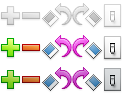
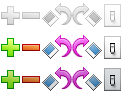
Help page filled in, bug fixes in settings and sets, polishing photostream view, big buttons in auth and help.
git-svn-id: file:///root/var/svn/trunk/uploadr@50 2ccee060-bf41-0410-b5a3-d28fdbd3ea41

diff --git a/MacUploadr.app/Contents/Resources/chrome/skin/uploadr/main.css b/MacUploadr.app/Contents/Resources/chrome/skin/uploadr/main.css
@@ -20,13 +20,15 @@ box, toolbox, hbox, vbox {
 #logo {
 	width: 100px;
 	height: 37px;
-	background: url(logo_flickr.png) no-repeat 5px 5px;
+	background: url(logo_flickr.png) no-repeat 0 5px;
 }
 
 /* User indicator */
+/*
 #head hbox {
 	margin: 8px 5px 0 5px;
 }
+*/
 #username {
 	margin: 5px 5px 0 0;
 }
@@ -171,16 +173,16 @@ div.small.button:active {
 	background-position: 0 -20px;
 }
 
-/* Make the upload button extra gaudy */
-#button_upload {
+/* Make the upload, OK and Ready buttons extra gaudy */
+#button_upload, #button_ok, #button_auth {
 	width: 193px;
 	height: 37px;
 	background: url(upload_off.png) no-repeat;
 }
-#button_upload.button:active {
+#button_upload.button:active, #button_ok.button:active, #button_auth.button:active {
 	background: url(upload_click.png) no-repeat;
 }
-#button_upload div {
+#button_upload div, #button_ok div, #button_auth div {
 	padding: 5px 0 11px 0;
 	background: transparent;
 	font-size: 21px;
@@ -188,7 +190,7 @@ div.small.button:active {
 	text-transform: none;
 	text-align: center;
 }
-#button_upload.button div {
+#button_upload.button div, #button_ok.button div, #button_auth.button div {
 	color: #ff0084;
 }
 #button_upload.disabled_button {
@@ -235,36 +237,21 @@ radiogroup checkbox {
  */
 
 #tools {
-	background: white;
-	border-bottom: 1px dotted #ddd;
+	margin: 5px;
+	padding: 0;
+	background: url(header_bg.png);
 }
-#tools toolbox toolbar {
-	height: 34px;
-	padding: 6px 0 1px 5px;
-	background: white;
-	border-bottom: 0;
-}
-/*
-#tools toolbox toolbar div {
-	margin: 0 0 5px 5px;
-}
-*/
-#tools toolbox toolbar toolbarbutton {
-	height: 20px;
-	margin: 0 5px 0 0;
-	background: white url(buttons.png) no-repeat;
-	border: 0;
-}
-#tools toolbox toolbar toolbarbutton :hover {
-	border: 0;
-}
-toolbarseparator {
+div.toolbarseparator {
 	width: 1px;
 	margin: 0 15px 5px 10px;
 	background: #eee;
 }
-#t_rotate_l {
+#t_rotate_l, #t_rotate_r {
 	width: 30px;
+	height: 20px;
+	margin: 0 5px 0 0;
+	background: url(buttons.png) no-repeat;
+	border: 0;
 }
 #t_rotate_l.disabled {
 	background-position: -42px -3px;
@@ -312,6 +299,13 @@ toolbarseparator {
 #photostream h1, #photostream p {
 	margin: 0;
 	padding: 0;
+}
+#photostream_pro {
+	visibility: hidden;
+}
+#photostream_tools {
+	text-align: right;
+	vertical-align: bottom;
 }
 
 /* Messages in the photos container */
@@ -365,7 +359,7 @@ toolbarseparator {
 
 /* The actual list of photos and similar properties of the queue */
 #photos_list, #queue_list {
-	margin: 0;
+	margin: 5px 0 0 0;
 	padding: 0;
 	list-style-type: none;
 }
@@ -563,9 +557,21 @@ toolbarseparator {
 /*
  * Tips and tricks page
  */
-
 #page_help {
 	display: none;
 	padding: 24px;
 	background: white;
+}
+#page_help td {
+	vertical-align: top;
+	/*border: 1px solid red;*/
+}
+#page_help td.spacer {
+	width: 12%;
+}
+#page_help td.column {
+	width: 32%;
+}
+#page_help p {
+	font-size: 14px;
 }

diff --git a/MacUploadr.app/Contents/Resources/chrome/content/uploadr/threads.js b/MacUploadr.app/Contents/Resources/chrome/content/uploadr/threads.js
@@ -13,10 +13,15 @@ var threads = {
 window._threads = threads;
 
 // Thumbnail thread wrapper
-var Thumb = function(id, thumbSize, path) {
+var Thumb = function(id, thumbSize, path, auto_select) {
 	this.id = id;
 	this.thumbSize = thumbSize;
 	this.path = path;
+	if (null == auto_select) {
+		this.auto_select = false;
+	} else {
+		this.auto_select = auto_select;
+	}
 };
 Thumb.prototype = {
 	run: function() {
@@ -24,7 +29,7 @@ Thumb.prototype = {
 
 			// Create a thumbnail and pass the result back to the UI thread
 			var result = threads.gm.thumb(this.thumbSize, this.path);
-			threads.main.dispatch(new ThumbCallback(this.id, result),
+			threads.main.dispatch(new ThumbCallback(this.id, result, this.auto_select),
 				threads.main.DISPATCH_NORMAL);
 
 		} catch (err) {
@@ -38,9 +43,10 @@ Thumb.prototype = {
 		throw Components.results.NS_ERROR_NO_INTERFACE;
 	}
 };
-var ThumbCallback = function(id, result) {
+var ThumbCallback = function(id, result, auto_select) {
 	this.id = id;
 	this.result = result;
+	this.auto_select = auto_select;
 };
 ThumbCallback.prototype = {
 	run: function() {
@@ -61,7 +67,6 @@ ThumbCallback.prototype = {
 				photos.list[this.id].width = parseInt(thumb[1]);
 				photos.list[this.id].height = parseInt(thumb[2]);
 				photos.list[this.id].date_taken = thumb[3];
-//Components.utils.reportError(photos.list[this.id].date_taken);
 				img.src = 'file://' + thumb[9];
 				img.setAttribute('width', thumb[4]);
 				img.setAttribute('height', thumb[5]);
@@ -73,7 +78,7 @@ ThumbCallback.prototype = {
 				photos.list[this.id].tags = thumb[8].replace(/^\s+|\s+$/, '');
 
 				// Select newly added images if the user hasn't clicked
-				if (meta.auto_select) {
+				if (meta.auto_select || this.auto_select) {
 					mouse.click({
 						target: img,
 						ctrlKey: true,
@@ -145,7 +150,7 @@ Rotate.prototype = {
 				threads.main.dispatch(new RotateCallback(this.id, rotate[1]),
 					threads.main.DISPATCH_NORMAL);
 				result = threads.gm.thumb(this.thumbSize, rotate[1]);
-				threads.main.dispatch(new ThumbCallback(this.id, result),
+				threads.main.dispatch(new ThumbCallback(this.id, result, true),
 					threads.main.DISPATCH_NORMAL);
 			}
 
@@ -167,7 +172,6 @@ var RotateCallback = function(id, path) {
 RotateCallback.prototype = {
 	run: function() {
 		photos.list[this.id].path = this.path;
-Components.utils.reportError(photos.selected.toSource());
 	},
 	QueryInterface: function(iid) {
 		if (iid.equals(Ci.nsIRunnable) || iid.equals(Ci.nsISupports)) {

diff --git a/MacUploadr.app/Contents/Resources/chrome/content/uploadr/mouse.js b/MacUploadr.app/Contents/Resources/chrome/content/uploadr/mouse.js
@@ -95,7 +95,7 @@ var mouse = {
 		}
 		
 		// If we clicked on an error or a spinner, do nothing
-		else if ('error' == e.target.className && 'loading' == e.target.className) {
+		else if ('error' == e.target.className || 'loading' == e.target.className) {
 		}
 
 		// If we clicked on whitespace, hide the thumbnail and metadata, and disable buttons
@@ -142,8 +142,8 @@ var mouse = {
 
 	// Update the bounding box used during drag-selection
 	drag_select: function(e, pos) {
-		const OFFSET_X = -mouse.box.x - 5;
-		const OFFSET_Y = -mouse.box.y - 73;
+		const OFFSET_X = -mouse.box.x - grid.base.x;
+		const OFFSET_Y = -mouse.box.y - grid.base.y;
 		var ds = document.getElementById('drag_select');
 
 		// Invert positions if necessary
@@ -192,8 +192,8 @@ var mouse = {
 		// Clicking whitespace will start the drag-select
 		else if ('photos_sort_revert' != e.target.id) {
 			mouse.anchor = {
-				x: e.clientX + pos.x.value - mouse.box.x - 5,
-				y: e.clientY + pos.y.value - mouse.box.y - 73
+				x: e.clientX + pos.x.value - mouse.box.x - grid.base.x,
+				y: e.clientY + pos.y.value - mouse.box.y - grid.base.y
 			};
 			var ds = document.getElementById('drag_select');
 			ds.style.left = mouse.anchor.x + 'px';
@@ -218,8 +218,8 @@ var mouse = {
 			mouse.box = document.getElementById('photos').boxObject.QueryInterface(
 				Ci.nsIScrollBoxObject);
 		}
-		const OFFSET_X = -mouse.box.x - 5;
-		const OFFSET_Y = -mouse.box.y - 73;
+		const OFFSET_X = -mouse.box.x - grid.base.x;
+		const OFFSET_Y = -mouse.box.y - grid.base.y;
 		var pos = {x: {}, y: {}};
 		mouse.box.getPosition(pos.x, pos.y);
 

diff --git a/MacUploadr.app/Contents/Resources/chrome/content/uploadr/settings.js b/MacUploadr.app/Contents/Resources/chrome/content/uploadr/settings.js
@@ -159,16 +159,6 @@ var settings = {
 			var changed_hidden = settings.hidden != s.hidden;
 			var changed_safety_level = settings.safety_level != s.safety_level;
 
-			// Get permission to overwrite any changes that were made
-			if (0 < photos.count && (changed_privacy || changed_content_type ||
-				changed_hidden || changed_safety_level) &&
-				!confirm(locale.getFormattedString('settings.overwrite.text', [photos.count]),
-					locale.getString('settings.overwrite.title'),
-					locale.getString('settings.overwrite.ok'),
-					locale.getString('settings.overwrite.cancel'))) {
-				return;
-			}
-
 			// Save back to the settings object
 			var defaults = {};
 			if (changed_privacy) {
@@ -193,6 +183,16 @@ var settings = {
 			}
 			settings.resize = s.resize;
 			meta.defaults(defaults);
+
+			// Get permission to overwrite any changes that were made
+			if (0 < photos.count && (changed_privacy || changed_content_type ||
+				changed_hidden || changed_safety_level) &&
+				!confirm(locale.getFormattedString('settings.overwrite.text', [photos.count]),
+					locale.getString('settings.overwrite.title'),
+					locale.getString('settings.overwrite.ok'),
+					locale.getString('settings.overwrite.cancel'))) {
+				return;
+			}
 
 			// Save metadata for a single photo
 			if (1 == photos.selected.length) {

diff --git a/MacUploadr.app/Contents/Resources/chrome/content/uploadr/api.js b/MacUploadr.app/Contents/Resources/chrome/content/uploadr/api.js
@@ -546,7 +546,7 @@ var flickr = {
 	// Like the auth section, this is used by users.login() and won't need to be called
 	people: {
 
-		// Used exclusively for buddy icons right now
+		// Sets up the photostream header
 		getInfo: function(user_id) {
 			_api({
 				'method': 'flickr.people.getInfo',
@@ -559,11 +559,17 @@ var flickr = {
 				var p = rsp.getElementsByTagName('person')[0];
 				var s = p.getAttribute('iconserver');
 				if (0 != parseInt(s)) {
-Components.utils.reportError('http://farm' + p.getAttribute('iconfarm') + '.static.flickr.com/' +
-s + '/buddyicons/' + id + '.jpg');
 					document.getElementById('buddyicon').src =
 						'http://farm' + p.getAttribute('iconfarm') + '.static.flickr.com/' +
 						s + '/buddyicons/' + id + '.jpg';
+				} else {
+					document.getElementById('buddyicon').src =
+						'http://flickr.com/images/buddyicon.jpg';
+				}
+				if (1 == parseInt(p.getAttribute('ispro'))) {
+					document.getElementById('photostream_pro').style.visibility = 'visible';
+				} else {
+					document.getElementById('photostream_pro').style.visibility = 'hidden';
 				}
 			}
 		},

diff --git a/MacUploadr.app/Contents/Resources/chrome/content/uploadr/grid.js b/MacUploadr.app/Contents/Resources/chrome/content/uploadr/grid.js
@@ -1,5 +1,11 @@
 var grid = {
 
+	// Base locations for grid calculations (pixels)
+	base: {
+		x: 5,
+		y: 78
+	},
+
 	// How many photos are in each full row?
 	width: function() {
 		var p = photos.list;
@@ -20,8 +26,8 @@ var grid = {
 
 	// Get photos in a bounding box
 	bounding_box: function(x1, y1, x2, y2) {
-		const OFFSET_X = -mouse.box.x - 5;
-		const OFFSET_Y = -mouse.box.y - 73;
+		const OFFSET_X = -mouse.box.x - grid.base.x;
+		const OFFSET_Y = -mouse.box.y - grid.base.y;
 		var pos = {x: {}, y: {}};
 		mouse.box.getPosition(pos.x, pos.y);
 

diff --git a/MacUploadr.app/Contents/Resources/chrome/content/uploadr/ui.js b/MacUploadr.app/Contents/Resources/chrome/content/uploadr/ui.js
@@ -21,6 +21,13 @@ var pages = {
 			document.getElementById('page_' + pages._list[i]).style.display = display;
 		}
 
+		// Only the photos page has the toolbar
+		if ('photos' == id) {
+			document.getElementById('tools').style.display = '-moz-box';
+		} else {
+			document.getElementById('tools').style.display = 'none';
+		}
+
 	},
 
 	// Return the current page name
